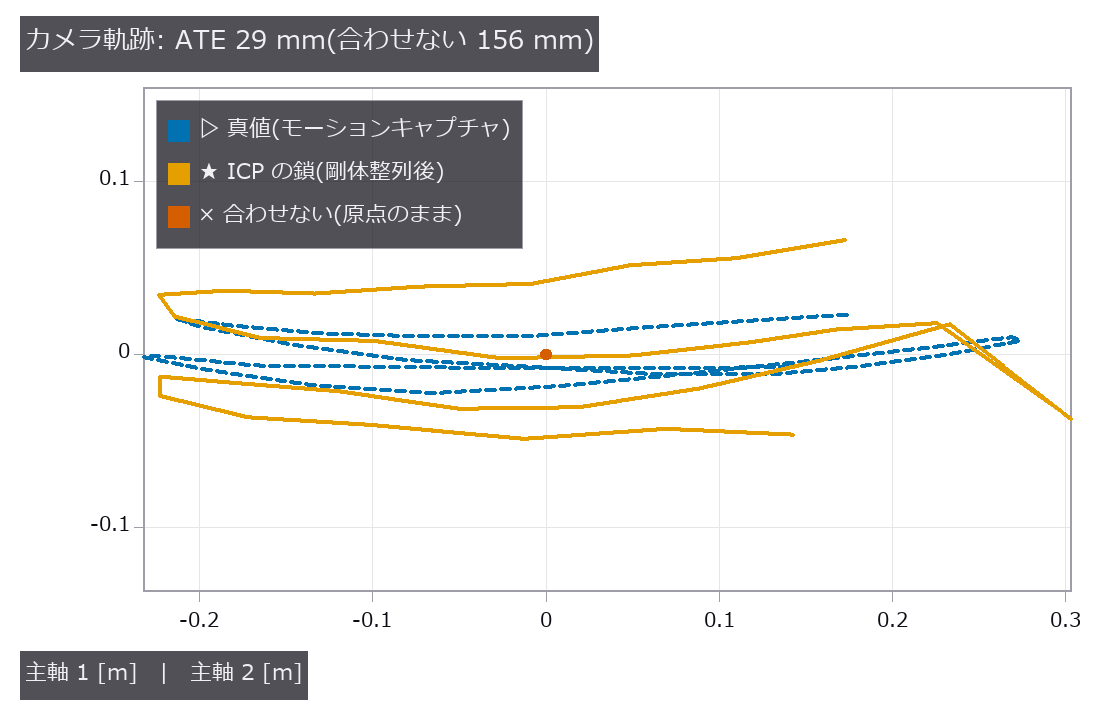
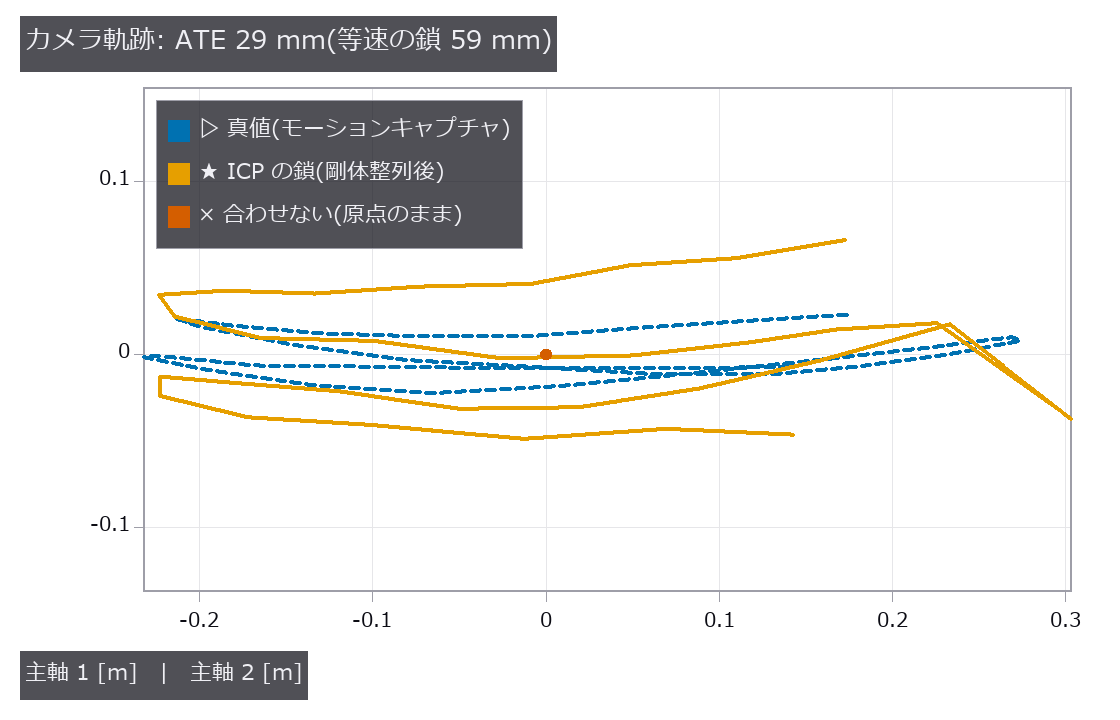
PoC TUM RGB-D: 8 通りの分割の全部の値を表に出し、見出しの比が分割に依る事と弱い門を書く
独立の敵対的レビュー(2026-11-13)の指摘を再現した: 見出しの「合わせないの 0.42 倍」は
8 通りの分割で最悪の 1 つ(範囲 0.10〜0.42)で、trim 0.2 が選ばれたのもこの分割だけ。
ほかの 7 通りが選ぶ trim 0.1 なら、組 1〜30 で等速の 0.45 倍(本文の 0.82 倍ではない)。

- 分割 8 通りの表(図 06_splits)を足し、全部の比・選ばれた trim・既定の ICP を並べる。
- 「合わせない」(単位行列)と比べるだけの門 6 本を「弱い門」と名前で分け、印字と
  判定の表の題に本数を出す(門 21 本は変わらない)。
- 「見出しに使うなら」の印字: 等速との比を「全 31 組」と書いていたが、数えているのは組 1〜30。
- 軌跡の図の題の比べる相手を「合わせない」(経路の広がりそのもの)から等速の鎖(59 mm)へ。
  等速の鎖は真値を 1 組遅らせた物で空間に描くと真値に重なるので線は描かず、説明に理由と
  右端の跳ね(組 16〜18 の失敗、組ごとの位置で確かめた)を書いた。
- 説明(poc_captions.json)の題と本文: 等速に対して 0.45〜0.82 倍、8 通りの全部の値、弱い門。
  数字は full・縮小とも同じ(既存の数字は変わらない)。

Claude-Session: https://claude.ai/code/session_01AwZFxqx3fbByJvEbUzzbSt

Changed region(s): [[0.2812, 0.0, 0.5625, 0.1222]]

diff --git a/examples/poc_real_tum_rgbd_slam.py b/examples/poc_real_tum_rgbd_slam.py
@@ -37,7 +37,8 @@
 
     py -3.11 examples/poc_real_tum_rgbd_slam.py
 
-図(``FULLSEYE_FIGURE_DIR`` があるときだけ): 深度と窓の残差、軌跡、組ごとの並進誤差、距離と雑音、判定の表。
+図(``FULLSEYE_FIGURE_DIR`` があるときだけ): 深度と窓の残差、軌跡、組ごとの並進誤差、距離と雑音、判定の表、
+分割 8 通りの表(見出しの比は分割に依るので全部を並べる。2026-11-13、作者と独立の検証の指摘で足した)。
 """
 from __future__ import annotations
 
@@ -566,8 +567,12 @@ def write_figures(seq, traj, reg, noise, g: Gates) -> None:
                     ("合わせない(原点のまま)", [0.0], [0.0])],
                    kinds=["line", "line", "scatter"], styles=["dashed", None, None],
                    colors=["reference", "emphasis", "wrong"], xlabel="主軸 1 [m]", ylabel="主軸 2 [m]",
-                   title="カメラ軌跡: ATE %.0f mm(合わせない %.0f mm)" % (1e3 * noise["ate"], 1e3 * noise["ate_ident"]),
-                   caption="カメラ位置の軌跡を真値の主軸 2 本へ投影した。ICP の鎖は誤差が溜まる(ドリフト)。",
+                   title="カメラ軌跡: ATE %.0f mm(等速の鎖 %.0f mm)" % (1e3 * noise["ate"], 1e3 * noise["ate_cv"]),
+                   caption="カメラ位置の軌跡を真値の主軸 2 本へ投影した。ICP の鎖は誤差が溜まる(ドリフト)。右端の跳ねは"
+                           "分割の直後の組 16〜18 で ICP が外れた所。比べる相手は等速(直前の組の真値の相対姿勢を使う oracle)の鎖で、"
+                           "これは真値を 1 組ぶん遅らせた物なので、空間に描くと真値の線にほぼ重なる(ATE は同じ時刻どうしの差なので"
+                           " 1 組ぶんの動きが残る。線は描いていない)。「合わせない」の ATE %.0f mm は真値の経路の広がりそのもので、"
+                           "比べる相手にならない。1 系列 32 枚の結果。" % (1e3 * noise["ate_ident"]),
                    source=SOURCE, aspect="equal")
     steps = list(range(1, reg["n_pairs"] + 1))
     ymax = float(max(traj["ident_t"].max(), reg["err_t"][None].max()) * 1e3)
@@ -609,8 +614,22 @@ def write_figures(seq, traj, reg, noise, g: Gates) -> None:
                    source=SOURCE)
     header = ["門", "判定", "中身"]
     rows_t = [[n, "OK" if ok else "NG", dt] for n, ok, dt in g.rows]
-    figs.save_table("verdicts", header, rows_t, title="門 %d 本(外れ %d 本)" % (len(g.rows), len(g.failed())),
-                    caption="結果を見てから置いた門を含む(docstring の限界を参照)。")
+    weak = sum("弱い門" in n for n, _ok, _dt in g.rows)
+    figs.save_table("verdicts", header, rows_t, title="門 %d 本(外れ %d 本。うち %d 本は最弱の基準に対する弱い門)"
+                    % (len(g.rows), len(g.failed()), weak),
+                    caption="結果を見てから置いた門を含む(docstring の限界を参照)。「弱い門」と書いた %d 本は、最弱の基準"
+                            "(合わせない = 単位行列)との比較で、通って当然のもの。" % weak)
+    # 分割の表は最後に足す(既存の図の番号を動かさない)。見出しの比は 8 通りの最悪の 1 つなので、全部を並べる。
+    sp = noise["splits"]
+    figs.save_table("splits", ["分割(選ぶ側 → 採点する側)", "選ばれた trim", "ICP [mm]", "合わせない [mm]", "比", "既定の ICP [mm]"],
+                    [[r["name"], str(r["trim"]), "%.1f" % (1e3 * r["icp"]), "%.1f" % (1e3 * r["ident"]), "%.2f" % r["ratio"],
+                      "%.1f" % (1e3 * r["default"])] for r in sp],
+                    title="分割を替えたときの並進 RPE(8 通りの全部。比は %.2f〜%.2f、本文の分割は最悪の %.2f)"
+                    % (min(r["ratio"] for r in sp), max(r["ratio"] for r in sp), sp[0]["ratio"]),
+                    caption="trim は選ぶ側の RMS が最小のものを選び、採点する側の RMS を「合わせない」(最弱の基準)と比べた。"
+                            "本文の分割(前半→後半)の比は 8 通りの中で最悪で、trim 0.2 が選ばれたのもこの分割だけ。"
+                            "等速(直前の組の真値を使う oracle)の RMS は %.1f mm(組 1 以降)。1 系列 32 枚の結果で、一般化しない。"
+                            % (1e3 * noise["cv_rms"]))
 
 
 # --------------------------------------------------------------------------- #
@@ -672,11 +691,11 @@ def main() -> None:
     print("  ★後半(採点): 並進 %.1f mm(合わせない %.1f mm、比 %.2f)、回転 %.2f°(合わせない %.2f°)、最大 %.1f mm、"
           "中央 %.1f mm" % (1e3 * rpe_t_b, 1e3 * rpe_t_id_b, rpe_t_b / rpe_t_id_b, rpe_r_b, rpe_r_id_b,
                            1e3 * float(et[half:].max()), 1e3 * float(np.median(et[half:]))))
-    g.check("後半の並進 RPE が合わせないの半分未満", rpe_t_b < 0.5 * rpe_t_id_b,
+    g.check("後半の並進 RPE が合わせないの半分未満(弱い門: 最弱の基準との比較)", rpe_t_b < 0.5 * rpe_t_id_b,
             "%.1f mm 対 %.1f mm(比 %.2f)" % (1e3 * rpe_t_b, 1e3 * rpe_t_id_b, rpe_t_b / rpe_t_id_b))
-    g.check("後半の回転 RPE が合わせないより小", rpe_r_b < rpe_r_id_b, "%.2f° 対 %.2f°" % (rpe_r_b, rpe_r_id_b))
+    g.check("後半の回転 RPE が合わせないより小(弱い門: 最弱の基準との比較)", rpe_r_b < rpe_r_id_b, "%.2f° 対 %.2f°" % (rpe_r_b, rpe_r_id_b))
     default_t = rms_of(reg["err_t"][None])
-    g.check("既定(trim なし)でも並進 RPE が合わせないより小", default_t < rms_of(it),
+    g.check("既定(trim なし)でも並進 RPE が合わせないより小(弱い門: 最弱の基準との比較)", default_t < rms_of(it),
             "全 31 組で %.1f mm 対 %.1f mm(比 %.2f)" % (1e3 * default_t, 1e3 * rms_of(it), default_t / rms_of(it)))
     ch = chain_of(reg["est"][chosen])
     ate, ate_err = ate_rmse(ch, traj["poses"])
@@ -685,7 +704,7 @@ def main() -> None:
     path = float(np.sum(np.linalg.norm(np.diff([p[:3, 3] for p in traj["poses"]], axis=0), axis=1)))
     print("  ATE(鎖、剛体整列後)RMSE: 選んだ trim %.1f mm / 既定 %.1f mm / 合わせない %.1f mm(経路長 %.2f m、"
           "最終ドリフト %.1f mm)" % (1e3 * ate, 1e3 * ate_default, 1e3 * ate_ident, path, 1e3 * float(ate_err[-1])))
-    g.check("ATE が合わせないの半分未満", ate < 0.5 * ate_ident,
+    g.check("ATE が合わせないの半分未満(弱い門: 合わせないの ATE は真値の経路の広がりそのもの)", ate < 0.5 * ate_ident,
             "%.1f mm 対 %.1f mm(全 %d 組の鎖)" % (1e3 * ate, 1e3 * ate_ident, npair))
     # --- 基準を強くする(等速)・分割を替える・3 組の影響 ------------------------------ #
     rel = traj["rel"]
@@ -730,13 +749,19 @@ def main() -> None:
     print("  ★比は %.2f〜%.2f(本文の分割は最悪の %.2f)。trim 0.1 が選ばれたのは 8 通り中 %d 通り、本文の分割だけ 0.2。"
           "全 31 組では trim 0.1 が %.1f mm、0.2 が %.1f mm。「選択が後半に移らない」は**この 1 回の分割の話**で一般化しない。"
           % (min(ratios), max(ratios), ratios[0], n01, 1e3 * rms_of(reg["err_t"][0.1]), 1e3 * rms_of(et)))
-    g.check("分割 8 通りのどれでも合わせないの半分未満", max(ratios) < 0.5, "比 %.2f〜%.2f" % (min(ratios), max(ratios)))
+    g.check("分割 8 通りのどれでも合わせないの半分未満(弱い門: 最弱の基準との比較)", max(ratios) < 0.5,
+            "比 %.2f〜%.2f" % (min(ratios), max(ratios)))
+    cv_all = rms_of(cv)
+    print("  ★見出しに使うなら: 「合わせないの %.2f 倍」は 8 通りの分割で最悪の 1 つ(範囲 %.2f〜%.2f)。等速(oracle)%.1f mm に対しては、"
+          "組 1〜%d の %d 組(組 0 は直前が無い)で trim 0.1 が %.2f 倍、trim %s が %.2f 倍。1 系列 32 枚の結果。"
+          % (ratios[0], min(ratios), max(ratios), 1e3 * cv_all, npair - 1, npair - 1,
+             rms_of(reg["err_t"][0.1][sl]) / cv_all, chosen, rms_of(et[sl]) / cv_all))
     # 内部パラメータの感度
     reg_ir = evaluate_registration(seq, traj, K_FR1_IR)
     ir_t = rms_of(reg_ir["err_t"][chosen])
     print("  内部パラメータを IR の公称値(%s、歪み補正なし)にすると、同じ trim の全組の並進 RPE %.1f mm(ROS の既定 %.1f mm)"
           % (K_FR1_IR, 1e3 * ir_t, 1e3 * rms_of(et)))
-    g.check("内部パラメータを替えても合わせないより良い", ir_t < rms_of(it), "%.1f mm 対 %.1f mm" % (1e3 * ir_t, 1e3 * rms_of(it)))
+    g.check("内部パラメータを替えても合わせないより良い(弱い門: 最弱の基準との比較)", ir_t < rms_of(it), "%.1f mm 対 %.1f mm" % (1e3 * ir_t, 1e3 * rms_of(it)))
 
     # --- 雑音 ------------------------------------------------------------- #
     print("\n[雑音] 窓(%d×%d 画素)の平面当てはめ残差(深度方向)を、距離の区間ごとの中央値で見る" % (TILE, TILE))
@@ -822,7 +847,8 @@ def main() -> None:
           "単位を決められないので係数の絶対値は未確認(門にしていない)。" % kh_coef)
 
     noise = {"bins": bins, "slope": slope, "slope_le2": slope_le2, "ratio": ratio, "ate": ate, "ate_ident": ate_ident,
-             "q_rows": q_rows, "slope_lo": min(slopes), "slope_hi": max(slopes), "cv": cv, "half": half}
+             "q_rows": q_rows, "slope_lo": min(slopes), "slope_hi": max(slopes), "cv": cv, "half": half,
+             "splits": splits, "cv_rms": cv_rms, "ate_cv": ate_cv}
     record = {
         "n_frames": n, "n_pairs": npair, "chosen_trim": chosen,
         "rpe_t_mm": {"b_icp": round(1e3 * rpe_t_b, 2), "b_ident": round(1e3 * rpe_t_id_b, 2),
@@ -850,7 +876,9 @@ def main() -> None:
     bad = g.failed()
     if bad:
         raise SystemExit("門が %d 本外れた: %s" % (len(bad), "; ".join(r[0] for r in bad)))
-    print("門 %d 本すべて通過(%.1f s)\nPASS" % (len(g.rows), time.perf_counter() - t0))
+    weak = sum("弱い門" in r[0] for r in g.rows)
+    print("門 %d 本すべて通過(うち %d 本は最弱の基準「合わせない」との比較で、通って当然の弱い門。%.1f s)\nPASS"
+          % (len(g.rows), weak, time.perf_counter() - t0))
 
 
 if __name__ == "__main__":
